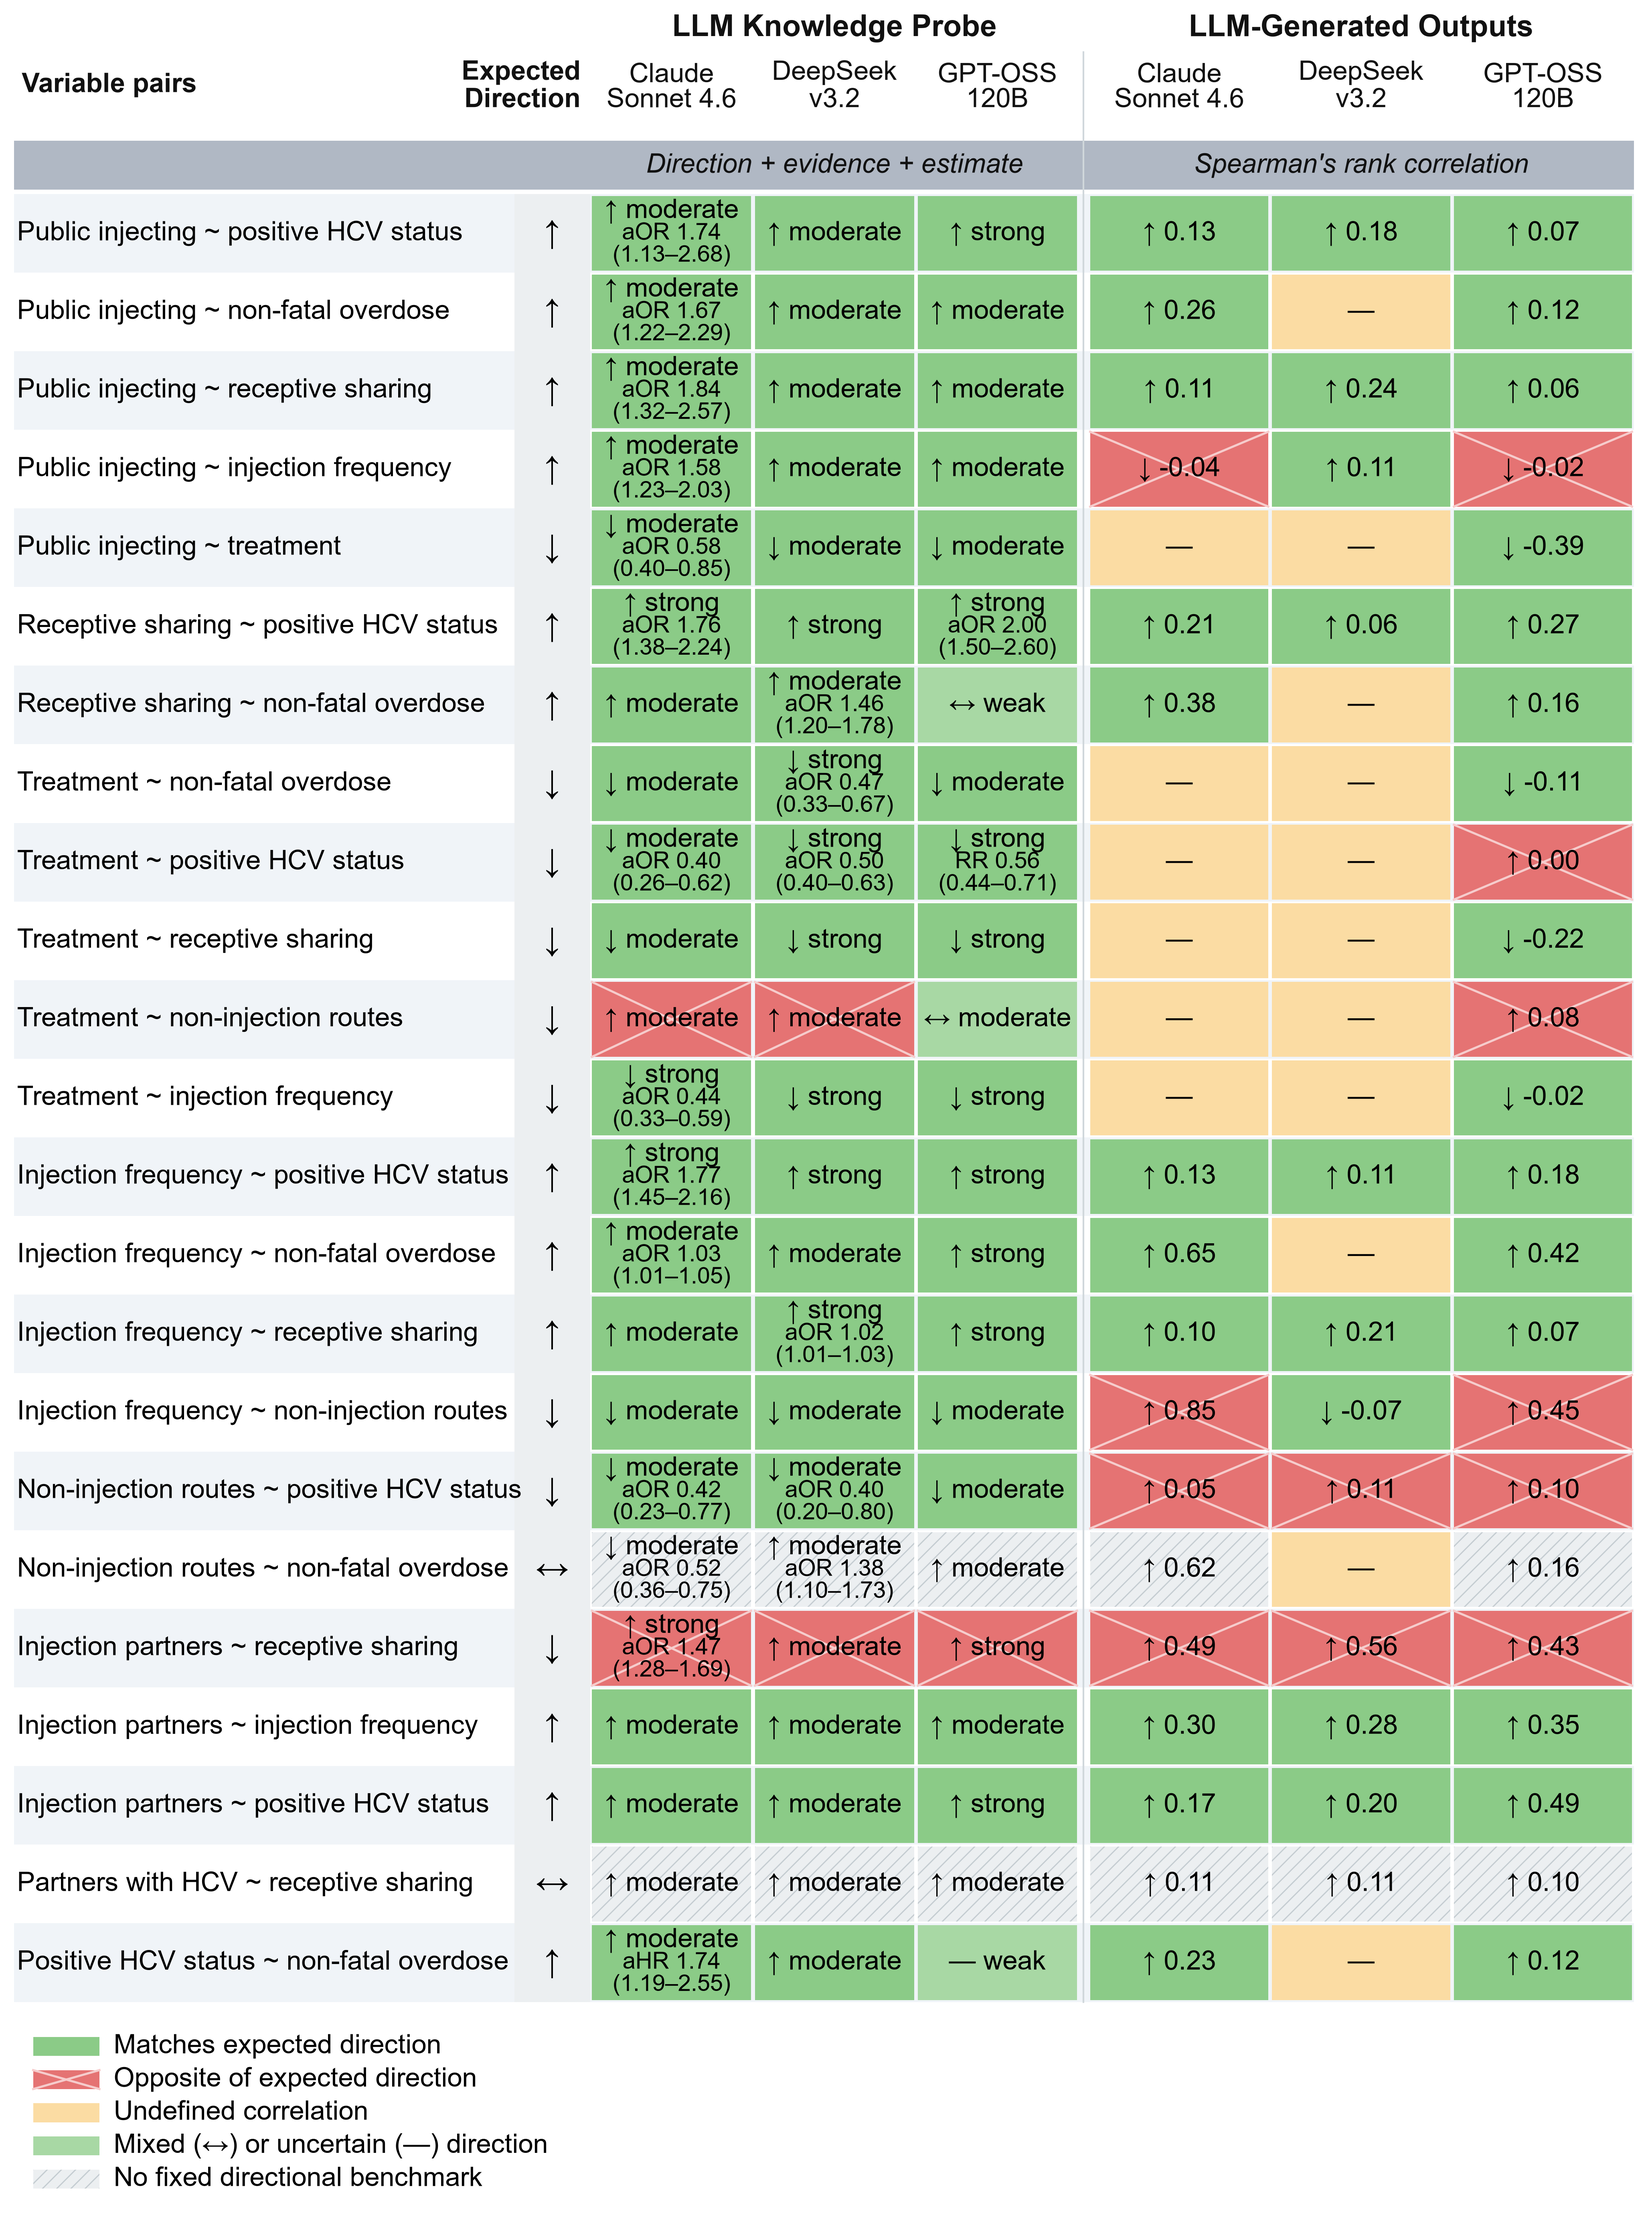
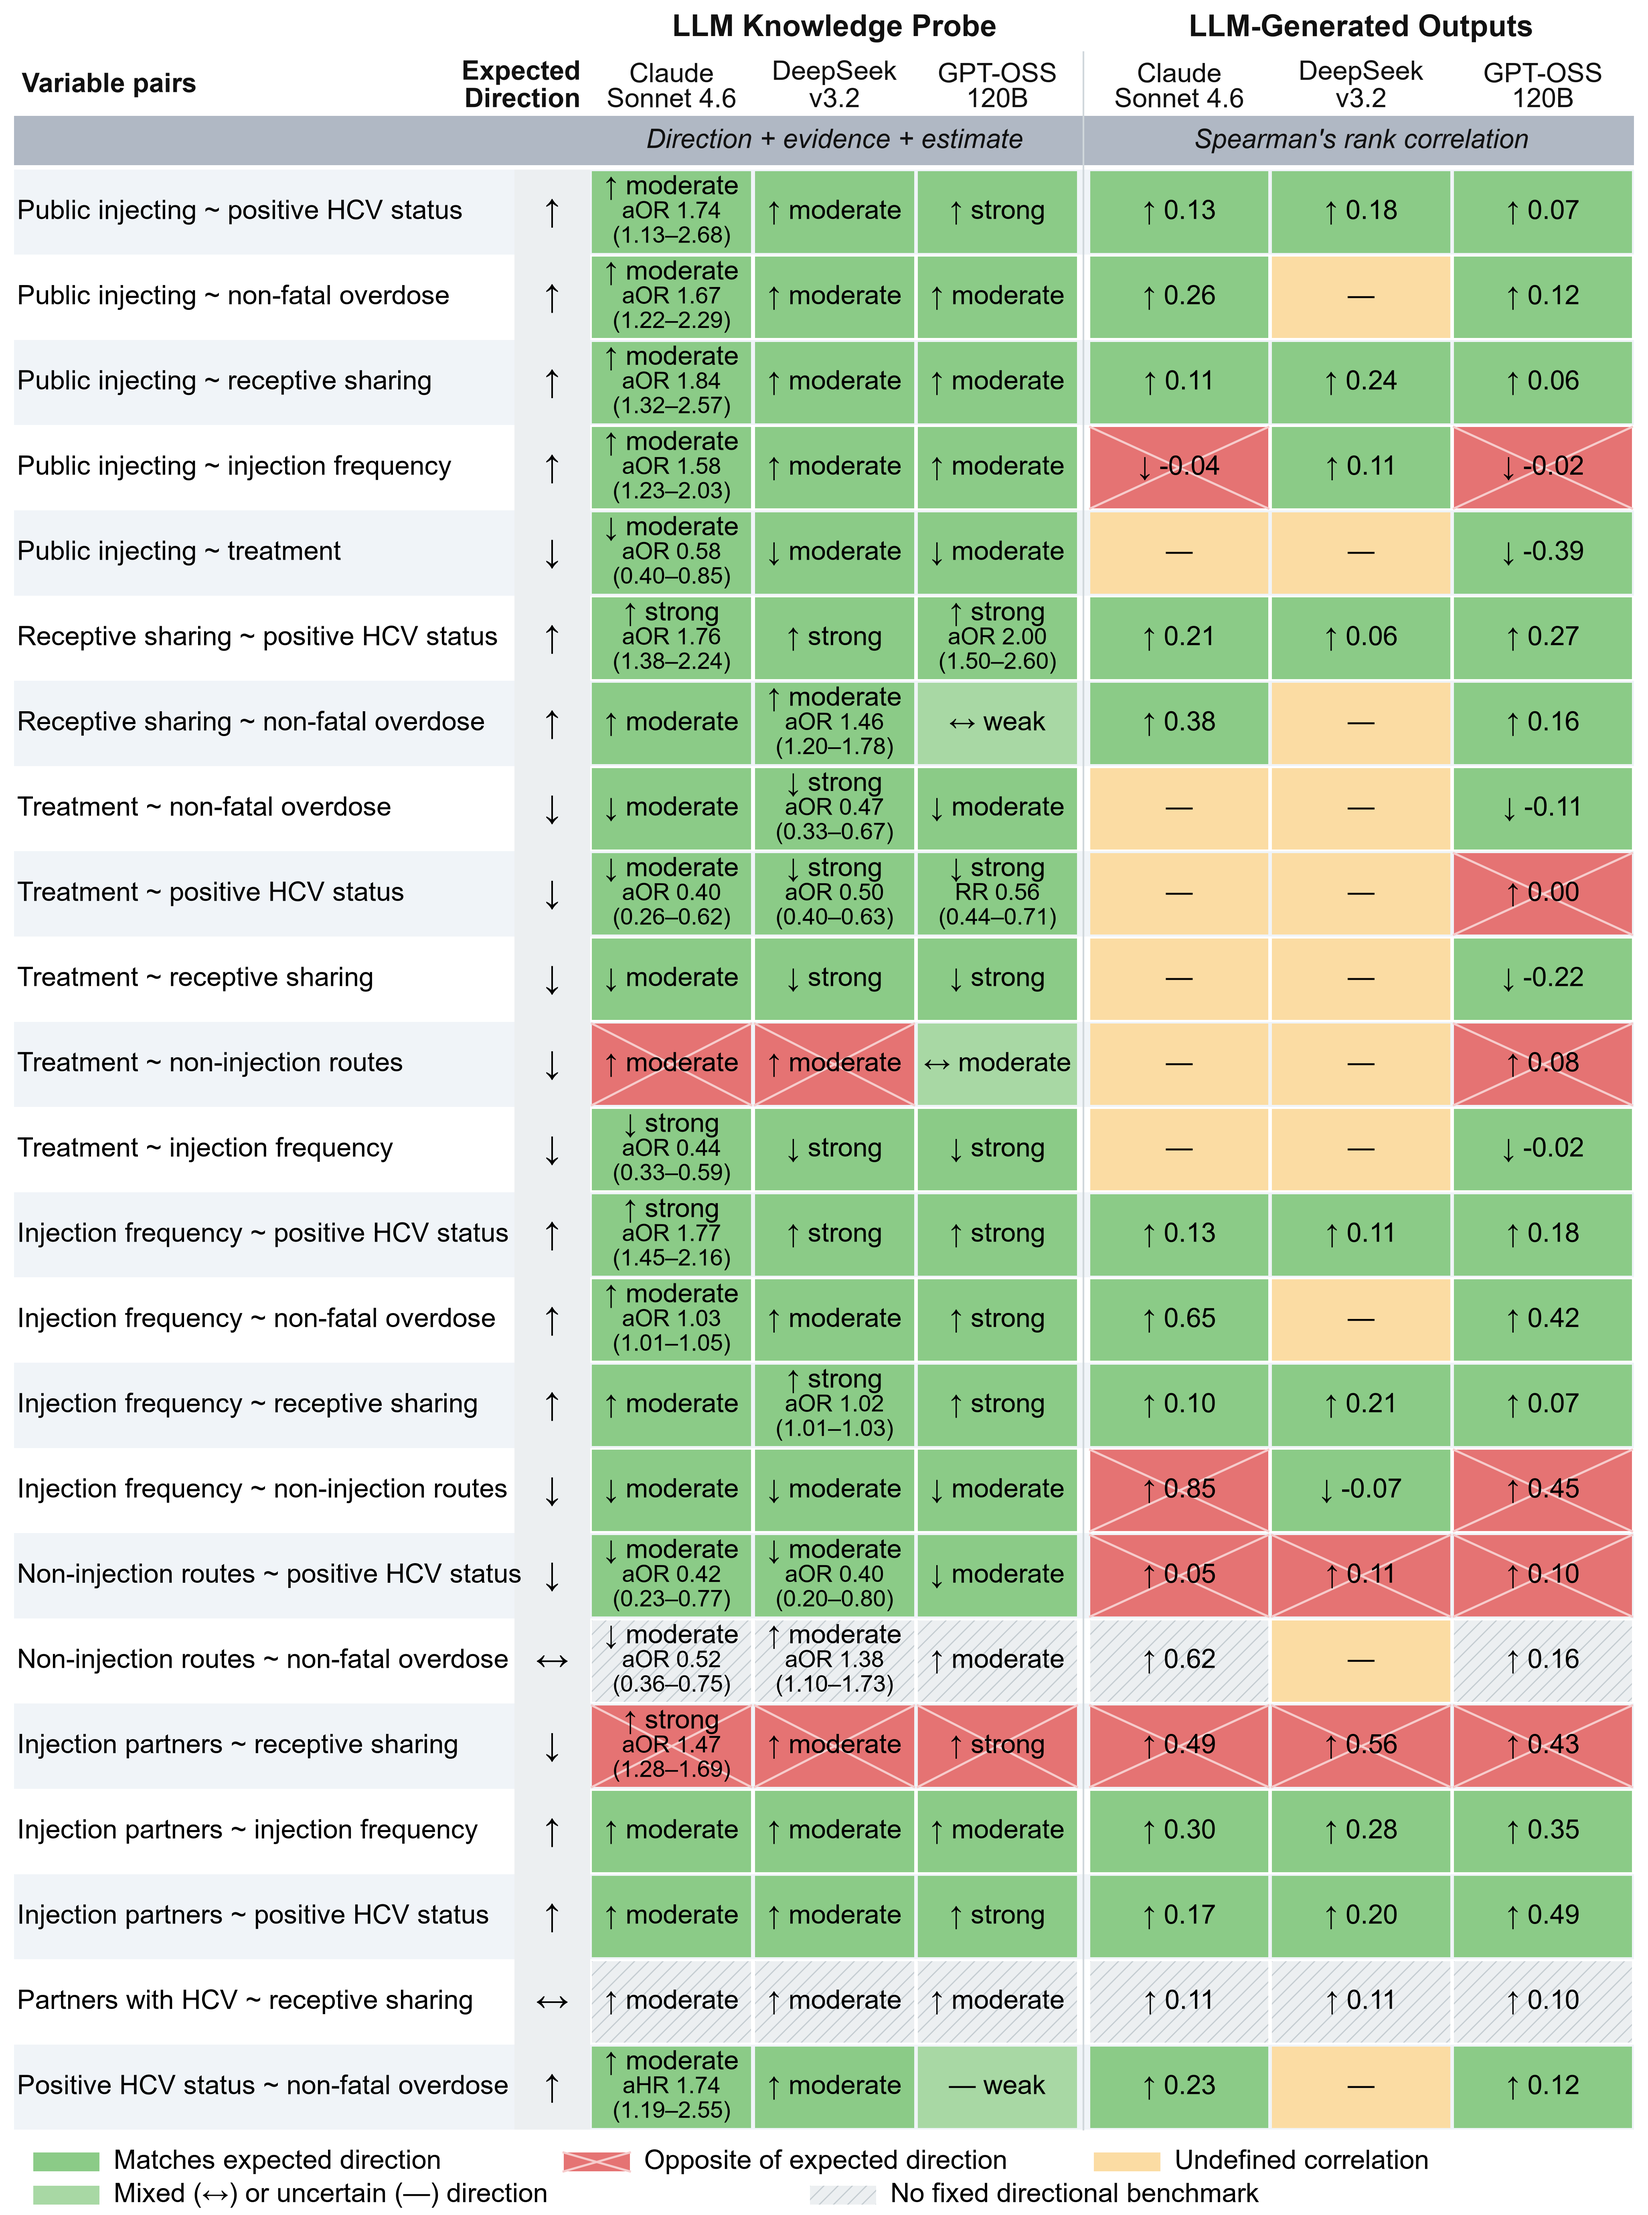
Increase table figure row heights within publication dimensions

diff --git a/artwork.py b/artwork.py
@@ -133,7 +133,13 @@ def draw_association_table(kind, knowledge, housing, correlations):
     """Retain the original banded comparison layout at final publication size."""
     configure_artwork()
     pairs = [pair for pair in EXPECTED if (pair[0] == TERMS["Homeless"]) == (kind == "housing")]
-    row_mm, header_mm, legend_mm, margin_mm = 8.3, 19, (17.5 if kind == "housing" else 21), 1.5
+    # Use taller rows, without changing column widths or shrinking the artwork.
+    # A two-row legend frees vertical space for S1's 23 associations.
+    if kind == "housing":
+        row_mm, header_mm, legend_mm = 11, 19, 17.5
+    else:
+        row_mm, header_mm, legend_mm = 9, 16.4, 7.5
+    margin_mm = 1.5
     height = 2*margin_mm + header_mm + row_mm*len(pairs) + legend_mm
     fig = plt.figure(figsize=(WIDTH_MM/MM_PER_INCH, height/MM_PER_INCH), dpi=100)
     ax = fig.add_axes([0, 0, 1, 1])
@@ -185,7 +191,7 @@ def draw_association_table(kind, knowledge, housing, correlations):
         background(x+.2, y+.2, width-.4, row_mm-.4, status)
         lines = text.split("\n")
         # Keep the direction/effect at 8 pt and reduce only estimate/CI detail.
-        spacing_mm = 2.35
+        spacing_mm = 2.85 if kind == "housing" else 2.6
         for index, line in enumerate(lines):
             offset = ((len(lines)-1)/2-index)*spacing_mm
             artist = ax.text(x+width/2, y+row_mm/2+offset, line, ha="center", va="center",
@@ -242,7 +248,12 @@ def draw_association_table(kind, knowledge, housing, correlations):
     if kind == "housing":
         legend = [item for item in legend if item[0] != "uncertain"]
     for index, (status, label) in enumerate(legend):
-        x, y = left+2, legend_mm-3.2-index*3.5
+        if kind == "housing":
+            x, y = left+2, legend_mm-3.2-index*3.5
+        else:
+            positions = [(0, 5.6), (56, 5.6), (112, 5.6), (0, 2.1), (82, 2.1)]
+            offset_x, y = positions[index]
+            x = left+2+offset_x
         background(x, y-1, 7, 2, status)
         ax.text(x+8.5, y, label, va="center", fontsize=8, color="#000000", zorder=3)
 
